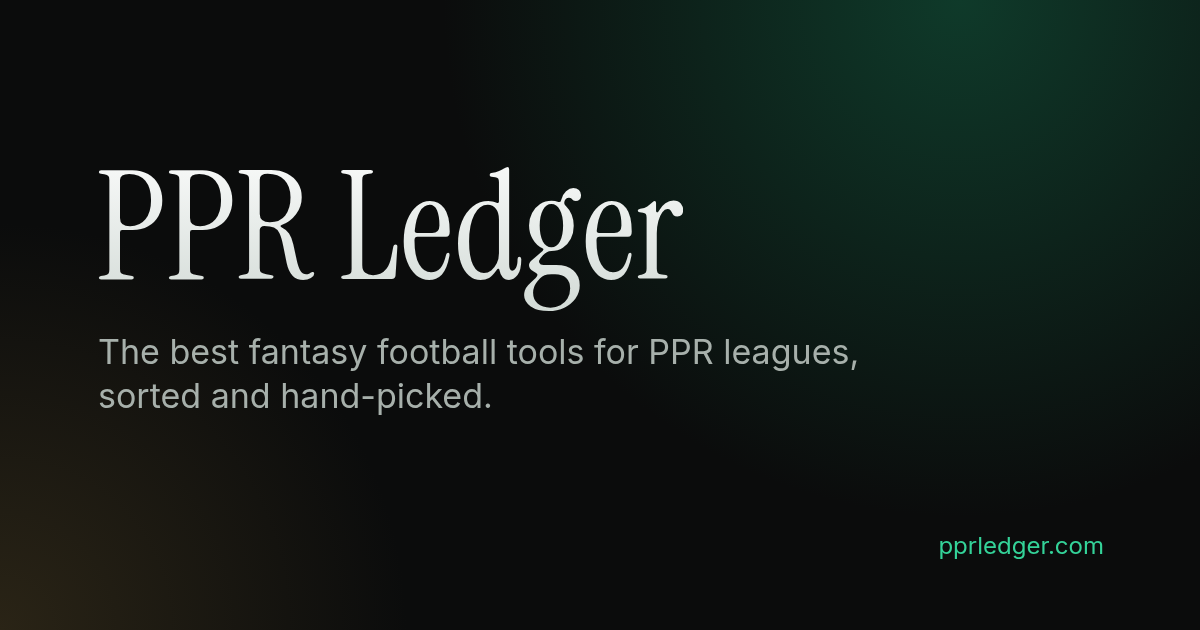
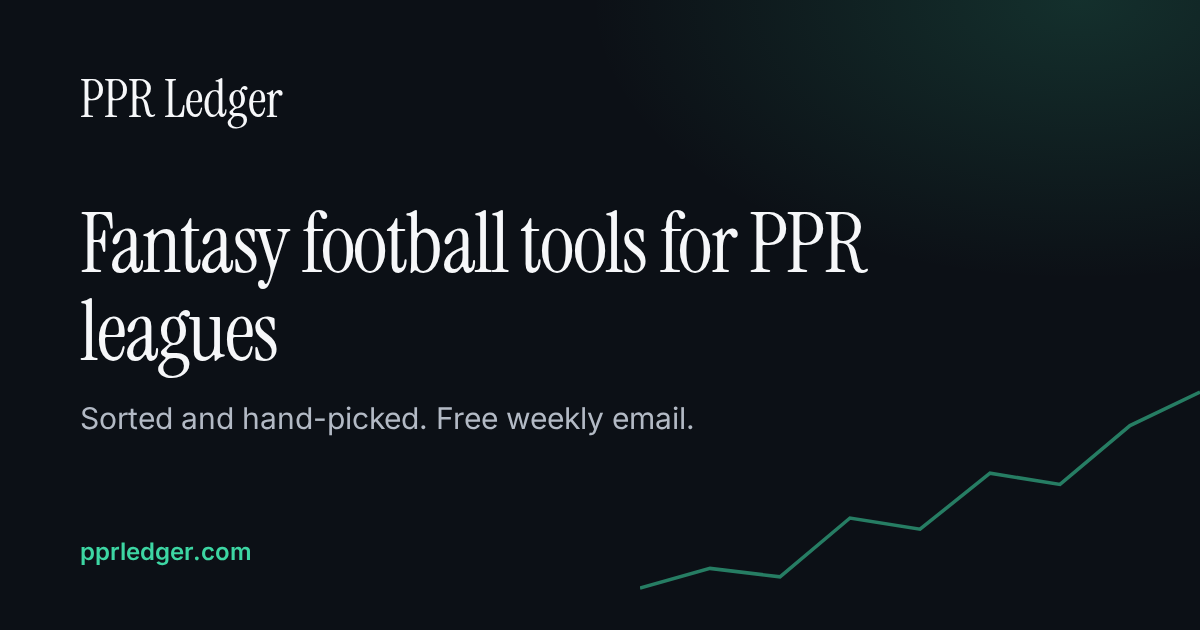
Add files via upload

diff --git a/index.html b/index.html
@@ -6,6 +6,9 @@
 <title>PPR Ledger — fantasy football tools for PPR leagues</title>
 <meta name="description" content="The best fantasy football tools for PPR leagues, sorted and hand-picked.">
 <link rel="icon" href="/favicon.svg" type="image/svg+xml">
+<link rel="icon" href="/favicon-32.png" type="image/png" sizes="32x32">
+<link rel="apple-touch-icon" href="/apple-touch-icon.png">
+<meta name="color-scheme" content="dark">
 <link rel="canonical" href="https://pprledger.com/">
 <meta property="og:type" content="website">
 <meta property="og:url" content="https://pprledger.com/">
@@ -14,61 +17,27 @@
 <meta property="og:image" content="https://pprledger.com/og.png">
 <meta property="og:image:width" content="1200"><meta property="og:image:height" content="630">
 <meta name="twitter:card" content="summary_large_image">
-<meta name="theme-color" content="#0a0d0c">
+<meta property="og:image:alt" content="PPR Ledger logo and tagline">
+<meta property="og:site_name" content="PPR Ledger">
+<meta name="theme-color" content="#0C1016">
 <link rel="preload" href="/fonts/InstrumentSerif-latin.woff2" as="font" type="font/woff2" crossorigin>
-<style>
-@font-face{font-family:'Instrument Serif';font-style:normal;font-weight:400;font-display:swap;src:url(/fonts/InstrumentSerif-latin.woff2) format("woff2");unicode-range:U+0000-00FF, U+0131, U+0152-0153, U+02BB-02BC, U+02C6, U+02DA, U+02DC, U+0304, U+0308, U+0329, U+2000-206F, U+20AC, U+2122, U+2191, U+2193, U+2212, U+2215, U+FEFF, U+FFFD}
-@font-face{font-family:'Inter';font-style:normal;font-weight:400 600;font-display:swap;src:url(/fonts/Inter-latin.woff2) format("woff2");unicode-range:U+0000-00FF, U+0131, U+0152-0153, U+02BB-02BC, U+02C6, U+02DA, U+02DC, U+0304, U+0308, U+0329, U+2000-206F, U+20AC, U+2122, U+2191, U+2193, U+2212, U+2215, U+FEFF, U+FFFD}
-@font-face{font-family:'JetBrains Mono';font-style:normal;font-weight:500;font-display:swap;src:url(/fonts/JetBrainsMono-latin.woff2) format("woff2");unicode-range:U+0000-00FF, U+0131, U+0152-0153, U+02BB-02BC, U+02C6, U+02DA, U+02DC, U+0304, U+0308, U+0329, U+2000-206F, U+20AC, U+2122, U+2191, U+2193, U+2212, U+2215, U+FEFF, U+FFFD}
-:root{--bg:#0a0d0c;--bg2:#101614;--line:rgba(255,255,255,.08);--ink:#e9efec;--muted:#93a39b;--em:#34d399;--em-d:#10b981;--gold:#d9b46a}
-*{box-sizing:border-box}html{-webkit-text-size-adjust:100%}
-body{margin:0;font-family:Inter,system-ui,-apple-system,"Segoe UI",sans-serif;background:var(--bg);color:var(--ink);line-height:1.65}
-.wrap{max-width:1040px;margin:0 auto;padding:0 22px}
-.sr{position:absolute;width:1px;height:1px;overflow:hidden;clip:rect(0 0 0 0);white-space:nowrap}
-a{color:var(--em)}
-.hero{position:relative;overflow:hidden;padding:96px 0 104px;border-bottom:1px solid var(--line)}
-.hero::before{content:"";position:absolute;inset:0;background:radial-gradient(800px 420px at 80% 0%,rgba(52,211,153,.16),transparent 60%),radial-gradient(600px 400px at 0% 100%,rgba(217,180,106,.08),transparent 60%);pointer-events:none}
-.hero::after{content:"";position:absolute;inset:0;background-image:repeating-linear-gradient(0deg,rgba(255,255,255,.035) 0 1px,transparent 1px 36px);mask-image:linear-gradient(180deg,#000 10%,transparent 90%);pointer-events:none}
-.hero .wrap{position:relative;z-index:1}
-.chart{position:absolute;right:-20px;bottom:0;width:min(520px,70%);opacity:.5;z-index:0}
-.mark{font-family:"Instrument Serif",Georgia,serif;font-weight:400;font-size:clamp(3rem,10vw,6rem);line-height:1.12;letter-spacing:-.02em;margin:0 0 20px;padding-bottom:.12em;background:linear-gradient(180deg,#fff,#b9c7c0);-webkit-background-clip:text;background-clip:text;color:transparent}
-.tag{font-size:clamp(1.1rem,2.4vw,1.35rem);color:var(--muted);margin:0 0 36px;max-width:560px}
-.btn{display:inline-flex;align-items:center;background:linear-gradient(180deg,#3ee0a5,#10b981);color:#04130d;font-weight:600;padding:15px 28px;border-radius:10px;text-decoration:none;font-size:1.02rem;box-shadow:0 1px 0 rgba(255,255,255,.35) inset,0 12px 34px -12px rgba(52,211,153,.6);transition:transform .15s}
-.btn:hover{transform:translateY(-1px)}
-.btn.alt{background:transparent;color:var(--ink);border:1px solid rgba(52,211,153,.5);box-shadow:none}
-.btn.alt:hover{background:rgba(52,211,153,.08)}
-.btn:focus-visible{outline:2px solid var(--gold);outline-offset:3px}
-main section{padding:72px 0;border-bottom:1px solid var(--line)}
-h2{font-family:"Instrument Serif",Georgia,serif;font-weight:400;font-size:clamp(1.8rem,4vw,2.6rem);letter-spacing:-.01em;margin:0 0 28px;line-height:1.1}
-h2::before{content:"";display:block;width:28px;height:2px;background:var(--gold);margin-bottom:18px}
-.grid{list-style:none;margin:0;padding:0;display:grid;gap:14px}
-.grid li{background:linear-gradient(180deg,rgba(255,255,255,.035),rgba(255,255,255,.01));border:1px solid var(--line);border-radius:14px;padding:24px;color:#cfd9d4}
-.ic{width:38px;height:38px;border-radius:9px;border:1px solid rgba(52,211,153,.3);background:rgba(52,211,153,.06);display:grid;place-items:center;margin-bottom:14px}
-.cta{background:radial-gradient(600px 240px at 50% 0%,rgba(52,211,153,.10),transparent 70%),var(--bg2);border:1px solid var(--line);border-radius:18px;padding:40px 28px;text-align:center}
-.cta h2::before{margin-left:auto;margin-right:auto}
-.cta p{color:var(--muted);margin:0 auto 26px;max-width:520px}
-.legal{display:grid;gap:0}
-.legal h2{font-size:1.6rem;margin-bottom:12px}
-.small{font-size:.92rem;color:var(--muted);margin:0 0 10px}
-footer{padding:44px 0 56px;font-size:.86rem;color:var(--muted)}
-footer p{margin:0 0 8px}
-@media(min-width:760px){.grid{grid-template-columns:repeat(3,1fr)}.legal{grid-template-columns:1fr 1fr;gap:56px}.legal section{border:0}.cta{padding:56px}}
-@media(prefers-reduced-motion:reduce){.btn{transition:none}}
-.skip{position:absolute;left:12px;top:-60px;z-index:99;padding:10px 16px;background:#fff;color:#111;border-radius:8px;font-weight:600}.skip:focus{top:12px}a[href^="mailto:"]{display:inline-block;padding:10px 2px;min-height:44px;box-sizing:border-box}.copy{margin-left:8px;min-height:44px;padding:0 14px;border-radius:999px;border:1px solid currentColor;background:transparent;color:inherit;font:inherit;font-size:.85em;cursor:pointer}</style>
+<link rel="preload" href="/fonts/Inter-latin.woff2" as="font" type="font/woff2" crossorigin>
+<style>@font-face{font-family:'Instrument Serif';font-style:normal;font-weight:400;font-display:swap;src:url(/fonts/InstrumentSerif-latin.woff2) format("woff2");unicode-range:U+0000-00FF, U+0131, U+0152-0153, U+02BB-02BC, U+02C6, U+02DA, U+02DC, U+0304, U+0308, U+0329, U+2000-206F, U+20AC, U+2122, U+2191, U+2193, U+2212, U+2215, U+FEFF, U+FFFD}@font-face{font-family:'Inter';font-style:normal;font-weight:400 600;font-display:swap;src:url(/fonts/Inter-latin.woff2) format("woff2");unicode-range:U+0000-00FF, U+0131, U+0152-0153, U+02BB-02BC, U+02C6, U+02DA, U+02DC, U+0304, U+0308, U+0329, U+2000-206F, U+20AC, U+2122, U+2191, U+2193, U+2212, U+2215, U+FEFF, U+FFFD}:root{--bg:#0C1016;--surface:#121821;--surface2:#171E29;--line:#232B37;--line2:#2F3947;--ink:#F6F7F9;--muted:#B3BAC5;--acc:#3DD6A3;--acc-ink:#04130D;--gold:#D9B46A;--r:12px}*{box-sizing:border-box}html{-webkit-text-size-adjust:100%;scroll-padding-top:80px}body{margin:0;font:400 1rem/1.5 Inter,system-ui,-apple-system,"Segoe UI",sans-serif;background:var(--bg);color:var(--ink);-webkit-font-smoothing:antialiased;text-rendering:optimizeLegibility}.wrap{max-width:1120px;margin:0 auto;padding:0 24px}.sr{position:absolute;width:1px;height:1px;overflow:hidden;clip:rect(0 0 0 0);white-space:nowrap}a{color:var(--acc);text-underline-offset:3px}:focus-visible{outline:2px solid var(--gold);outline-offset:3px;border-radius:4px}.bar{position:sticky;top:0;z-index:20;background:rgba(12,16,22,.86);backdrop-filter:saturate(140%) blur(12px);-webkit-backdrop-filter:saturate(140%) blur(12px);border-bottom:1px solid var(--line)}.bar .wrap{display:flex;align-items:center;justify-content:space-between;height:64px}.brand{display:inline-flex;align-items:center;min-height:44px}.brand .logo{height:32px;width:auto}.btn{display:inline-flex;align-items:center;justify-content:center;gap:8px;min-height:48px;background:var(--acc);color:var(--acc-ink);font-weight:600;font-size:1rem;padding:0 24px;border-radius:var(--r);text-decoration:none;transition:background .15s,transform .15s}.btn:hover{background:#5BE3B5}.btn:active{transform:translateY(1px)}.btn.sm{min-height:44px;padding:0 16px;font-size:.9375rem}.btn.alt{background:transparent;color:var(--ink);border:1px solid var(--line2)}.btn.alt:hover{border-color:var(--acc);background:rgba(61,214,163,.06)}.hero{position:relative;padding:96px 0 96px;border-bottom:1px solid var(--line);overflow:hidden}.hero::before{content:"";position:absolute;inset:0;background:radial-gradient(640px 360px at 85% 0%,rgba(61,214,163,.12),transparent 70%);pointer-events:none}.hero .wrap{position:relative;display:grid;gap:48px;align-items:center}.eyebrow{display:inline-flex;align-items:center;gap:8px;font-size:.875rem;font-weight:600;letter-spacing:.08em;text-transform:uppercase;color:var(--gold);margin:0 0 24px}.eyebrow::before{content:"";width:24px;height:1px;background:var(--gold)}.mark{font-family:"Instrument Serif",Georgia,serif;font-weight:400;font-size:clamp(3rem,9vw,5.5rem);line-height:1.05;letter-spacing:-.02em;margin:0 0 24px;color:var(--ink)}.tag{font-size:clamp(1.125rem,2.2vw,1.25rem);color:var(--muted);margin:0 0 32px;max-width:34ch}.meta{display:flex;flex-wrap:wrap;gap:8px 24px;margin:24px 0 0;padding:0;list-style:none;font-size:.875rem;color:var(--muted)}.meta li{display:flex;align-items:center;gap:8px}.meta li::before{content:"";width:6px;height:6px;border-radius:50%;background:var(--acc)}.panel{background:var(--surface);border:1px solid var(--line);border-radius:16px;padding:24px;box-shadow:0 24px 64px -32px rgba(0,0,0,.8)}.panel .chart{display:block;width:100%;height:auto}.panel-h{display:flex;justify-content:space-between;align-items:center;font-size:.875rem;color:var(--muted);margin-bottom:16px}.panel-h b{color:var(--ink);font-weight:600}main section{padding:96px 0;border-bottom:1px solid var(--line)}h2{font-family:"Instrument Serif",Georgia,serif;font-weight:400;font-size:clamp(2rem,4vw,3rem);letter-spacing:-.01em;margin:0 0 32px;line-height:1.1}h2::before{content:"";display:block;width:32px;height:2px;background:var(--gold);margin-bottom:16px}.grid{list-style:none;margin:0;padding:0;display:grid;gap:16px}.grid li{background:var(--surface);border:1px solid var(--line);border-radius:16px;padding:32px 24px;color:#D5D9E0;font-size:1.0625rem;transition:border-color .2s}.grid li:hover{border-color:var(--line2)}.ic{width:44px;height:44px;border-radius:12px;border:1px solid rgba(61,214,163,.3);background:rgba(61,214,163,.08);display:grid;place-items:center;margin-bottom:24px}.ic svg{stroke:var(--acc)}.cta{background:radial-gradient(560px 240px at 50% 0%,rgba(61,214,163,.10),transparent 70%),var(--surface);border:1px solid var(--line);border-radius:24px;padding:48px 24px;text-align:center}.cta h2::before{margin-left:auto;margin-right:auto}.cta p{color:var(--muted);margin:0 auto 32px;max-width:48ch}.legal{display:grid;gap:0}.legal h2{font-size:1.5625rem;margin-bottom:16px}.small{font-size:1rem;color:var(--muted);margin:0 0 12px;max-width:65ch}footer{padding:48px 0 64px;font-size:.9375rem;color:var(--muted)}footer .logo{height:28px;width:auto;margin-bottom:24px}footer p{margin:0 0 8px}.skip{position:absolute;left:12px;top:-60px;z-index:99;padding:12px 16px;background:#fff;color:#111;border-radius:8px;font-weight:600}.skip:focus{top:12px}a[href^="mailto:"]{display:inline-flex;align-items:center;min-height:44px}.copy{margin-left:8px;min-height:44px;padding:0 16px;border-radius:999px;border:1px solid var(--line2);background:transparent;color:inherit;font:inherit;font-size:.875rem;cursor:pointer}.copy:hover{border-color:var(--acc)}.dock{position:fixed;left:0;right:0;bottom:0;z-index:30;padding:12px 16px calc(12px + env(safe-area-inset-bottom));background:rgba(12,16,22,.92);backdrop-filter:blur(12px);-webkit-backdrop-filter:blur(12px);border-top:1px solid var(--line);transform:translateY(110%);transition:transform .25s}.dock.on{transform:none}.dock .btn{width:100%}@media(max-width:767px){body{padding-bottom:80px}.bar .btn{display:none}.panel{display:none}.hero{padding:64px 0}main section{padding:64px 0}}@media(min-width:768px){.dock{display:none}.grid{grid-template-columns:repeat(3,1fr)}.legal{grid-template-columns:1fr 1fr;gap:64px}.legal section{border:0}.cta{padding:64px}}@media(min-width:1024px){.hero .wrap{grid-template-columns:1.15fr .85fr}}@media(prefers-reduced-motion:reduce){*{transition:none!important}}.brand{text-decoration:none}.wm{font-family:"Instrument Serif",Georgia,serif;font-size:1.5625rem;line-height:1;color:#F6F7F9;letter-spacing:-.01em}footer .wm{display:inline-block;margin-bottom:24px}.nf .wm{font-size:2rem}</style>
 </head>
 <body><a class="skip" href="#main">Skip to content</a>
-<header class="hero">
-<svg class="chart" viewBox="0 0 520 220" aria-hidden="true" fill="none"><defs><linearGradient id="g" x1="0" y1="0" x2="0" y2="1"><stop offset="0" stop-color="#34d399" stop-opacity=".35"/><stop offset="1" stop-color="#34d399" stop-opacity="0"/></linearGradient></defs><path d="M0 190 L60 170 L120 178 L180 130 L240 142 L300 96 L360 108 L420 60 L480 70 L520 30 L520 220 L0 220Z" fill="url(#g)"/><path d="M0 190 L60 170 L120 178 L180 130 L240 142 L300 96 L360 108 L420 60 L480 70 L520 30" stroke="#34d399" stroke-width="2"/></svg>
-<div class="wrap">
+<header class="bar"><div class="wrap"><a class="brand" href="/" aria-label="PPR Ledger home"><span class="wm">PPR Ledger</span></a><a class="btn sm" href="https://docs.google.com/forms/d/e/1FAIpQLSfNv3nU7Va9gNNBcES0qTLpC2VksJACw_Sjrzsr99mxCDPBxg/viewform" target="_blank" rel="noopener">Join the waitlist<span class="sr"> (opens in a new tab)</span></a></div></header>
+<main id="main"><section class="hero"><div class="wrap"><div>
+<p class="eyebrow">For PPR leagues</p>
 <h1 class="mark">PPR Ledger</h1>
 <p class="tag">The best fantasy football tools for PPR leagues, sorted and hand-picked.</p>
-<a class="btn" href="https://docs.google.com/forms/d/e/1FAIpQLSfNv3nU7Va9gNNBcES0qTLpC2VksJACw_Sjrzsr99mxCDPBxg/viewform" target="_blank" rel="noopener">Join the waitlist<span class="sr"> (opens in a new tab)</span></a>
-</div></header>
-<main id="main" class="wrap">
+<a class="btn" data-hero-cta href="https://docs.google.com/forms/d/e/1FAIpQLSfNv3nU7Va9gNNBcES0qTLpC2VksJACw_Sjrzsr99mxCDPBxg/viewform" target="_blank" rel="noopener">Join the waitlist<span class="sr"> (opens in a new tab)</span></a>
+<ul class="meta" aria-label="Highlights"><li>Free weekly email</li><li>No betting</li><li>Unsubscribe any time</li></ul>
+</div><div class="panel" aria-hidden="true"><div class="panel-h"><b>PPR Ledger</b><span>Weekly</span></div><svg class="chart" viewBox="0 0 400 200" aria-hidden="true" fill="none"><defs><linearGradient id="g" x1="0" y1="0" x2="0" y2="1"><stop offset="0" stop-color="#3DD6A3" stop-opacity=".28"/><stop offset="1" stop-color="#3DD6A3" stop-opacity="0"/></linearGradient></defs><g stroke="#232B37"><path d="M0 50H400M0 100H400M0 150H400"/></g><path d="M0 170 L50 156 L100 162 L150 120 L200 128 L250 88 L300 96 L350 54 L400 30 L400 200 L0 200Z" fill="url(#g)"/><path d="M0 170 L50 156 L100 162 L150 120 L200 128 L250 88 L300 96 L350 54 L400 30" stroke="#3DD6A3" stroke-width="2.5" stroke-linejoin="round"/><circle cx="400" cy="30" r="0"/><circle cx="350" cy="54" r="5" fill="#0C1016" stroke="#3DD6A3" stroke-width="2.5"/></svg></div></div></section><div class="wrap">
+
 <section aria-labelledby="get"><h2 id="get">What you get</h2><ul class="grid">
-<li><div class="ic" aria-hidden="true"><svg width="20" height="20" viewBox="0 0 24 24" fill="none" stroke="#34d399" stroke-width="1.7" stroke-linecap="round" stroke-linejoin="round"><path d="M4 20V10M10 20V4M16 20v-7M22 20H2"/></svg></div>A directory of PPR-friendly tools: rankings, trade calculators, waiver helpers, and target and snap-share data.</li>
-<li><div class="ic" aria-hidden="true"><svg width="20" height="20" viewBox="0 0 24 24" fill="none" stroke="#34d399" stroke-width="1.7" stroke-linecap="round" stroke-linejoin="round"><rect x="3" y="5" width="18" height="14" rx="2"/><path d="m3 7 9 6 9-6"/></svg></div>A short, free weekly email telling you which tools are worth your time this week.</li>
-<li><div class="ic" aria-hidden="true"><svg width="20" height="20" viewBox="0 0 24 24" fill="none" stroke="#34d399" stroke-width="1.7" stroke-linecap="round" stroke-linejoin="round"><path d="M20 6 9 17l-5-5"/></svg></div>Plain, practical picks, with no hype and no betting.</li>
+<li><div class="ic" aria-hidden="true"><svg width="20" height="20" viewBox="0 0 24 24" fill="none" stroke="#3DD6A3" stroke-width="1.7" stroke-linecap="round" stroke-linejoin="round"><path d="M4 20V10M10 20V4M16 20v-7M22 20H2"/></svg></div>A directory of PPR-friendly tools: rankings, trade calculators, waiver helpers, and target and snap-share data.</li>
+<li><div class="ic" aria-hidden="true"><svg width="20" height="20" viewBox="0 0 24 24" fill="none" stroke="#3DD6A3" stroke-width="1.7" stroke-linecap="round" stroke-linejoin="round"><rect x="3" y="5" width="18" height="14" rx="2"/><path d="m3 7 9 6 9-6"/></svg></div>A short, free weekly email telling you which tools are worth your time this week.</li>
+<li><div class="ic" aria-hidden="true"><svg width="20" height="20" viewBox="0 0 24 24" fill="none" stroke="#3DD6A3" stroke-width="1.7" stroke-linecap="round" stroke-linejoin="round"><path d="M20 6 9 17l-5-5"/></svg></div>Plain, practical picks, with no hype and no betting.</li>
 </ul></section>
 <section aria-labelledby="signup" style="border:0"><div class="cta"><h2 id="signup">Sign up</h2>
 <p>Get launch updates, the free weekly teaser, and occasional PPR Ledger offers.</p>
@@ -80,11 +49,11 @@ footer p{margin:0 0 8px}
 <p class="small">We collect only your email address, plus an optional answer about which tool you'd want first. We use them only to send PPR Ledger launch updates, the weekly teaser, and occasional PPR Ledger offers, and to decide what to build first. We don't sell or share your email. Every email has an unsubscribe link, and you can also ask to be removed at <a href="mailto:hello@pprledger.com">hello@pprledger.com</a>. The signup form is run on Google Forms, so Google's privacy policy also applies. This site isn't directed to children under 13, and we don't knowingly collect their information. We may update this notice; the date below shows the latest version.</p>
 <p class="small">Last updated: October 15, 2026.</p></section>
 </div>
-</main>
-<footer><div class="wrap">
+</div></main>
+<footer><div class="wrap"><span class="wm">PPR Ledger</span>
 <p>PPR Ledger is an independent information site. It isn't affiliated with the NFL or any fantasy platform, and it doesn't offer or promote gambling or paid contests.</p>
 <p>Contact: <a href="mailto:hello@pprledger.com">hello@pprledger.com</a></p>
 <p>© 2026 PPR Ledger</p>
 </div></footer>
-<script>document.querySelectorAll('a[href^="mailto:"]').forEach(function(a){var b=document.createElement("button");b.type="button";b.className="copy";b.textContent="Copy";b.setAttribute("aria-label","Copy email address "+a.textContent);b.onclick=function(){navigator.clipboard.writeText(a.textContent).then(function(){b.textContent="Copied"; setTimeout(function(){b.textContent="Copy"},2000)})};a.after(b)})</script></body>
+<script>document.querySelectorAll('a[href^="mailto:"]').forEach(function(a){var b=document.createElement("button");b.type="button";b.className="copy";b.textContent="Copy";b.setAttribute("aria-label","Copy email address "+a.textContent);b.onclick=function(){navigator.clipboard.writeText(a.textContent).then(function(){b.textContent="Copied"; setTimeout(function(){b.textContent="Copy"},2000)})};a.after(b)})</script><div class="dock" aria-hidden="true"><a class="btn" tabindex="-1" href="https://docs.google.com/forms/d/e/1FAIpQLSfNv3nU7Va9gNNBcES0qTLpC2VksJACw_Sjrzsr99mxCDPBxg/viewform" target="_blank" rel="noopener">Join the waitlist<span class="sr"> (opens in a new tab)</span></a></div><script>(function(){var d=document.querySelector(".dock"),h=document.querySelector("[data-hero-cta]");if(!d||!h||!("IntersectionObserver" in window))return;new IntersectionObserver(function(e){var v=e[0].isIntersecting;d.classList.toggle("on",!v);d.setAttribute("aria-hidden",v?"true":"false");d.querySelector("a").tabIndex=v?-1:0}).observe(h)})()</script></body>
 </html>
